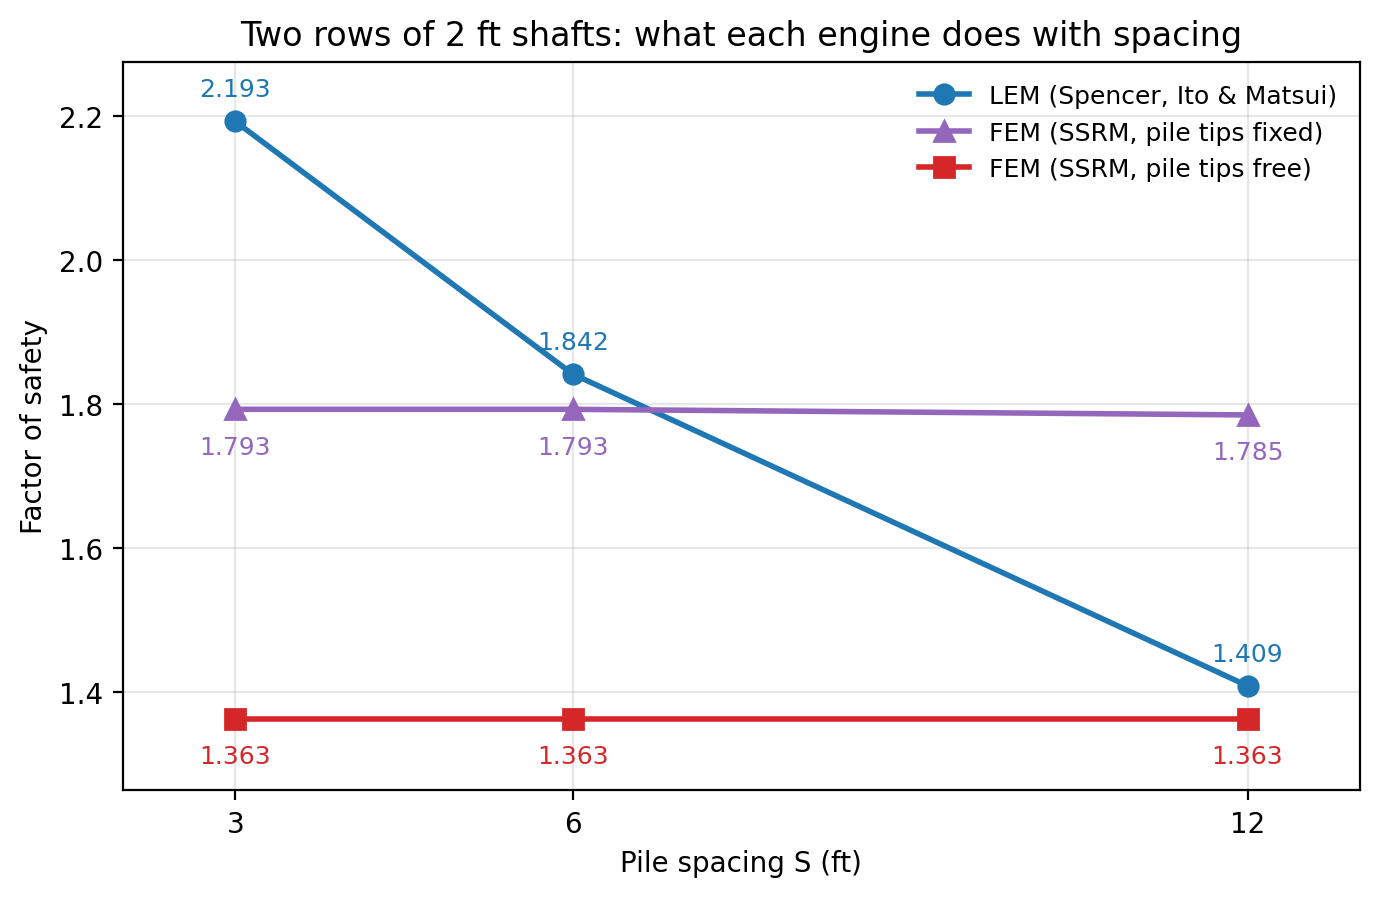
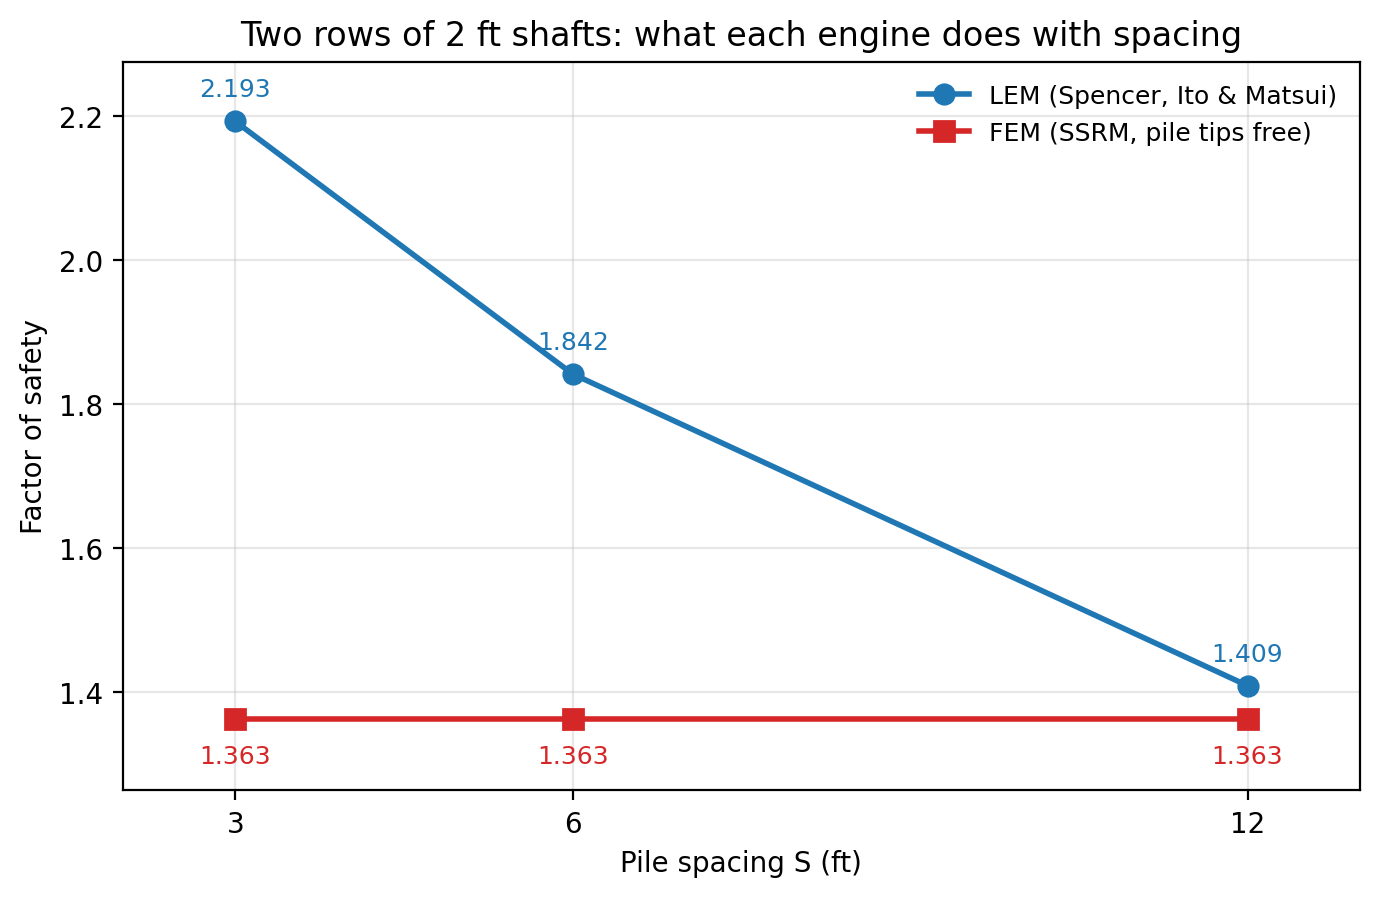
docs(tutorials): FEM-3 — the spacing figure shows only what has been run so far; the tip-fixed line joins it after the tip-fixed run
Claude-Session: https://claude.ai/code/session_01XjjT2aBxw8gY7EFdpoUcpj

Changed region(s): [[0.1558, 0.437, 0.9348, 0.5307], [0.6543, 0.1249, 0.9659, 0.2185]]

diff --git a/tools/make_tutorial_figures.py b/tools/make_tutorial_figures.py
@@ -4960,15 +4960,19 @@ def fem03_spacing():
 
 
 def _fem03_spacing_figure(lem, fixed, free, _u):
-    """The sweep on one axis: the limit equilibrium curve and the two
-    strength-reduction lines, each point labeled with its own answer.
+    """The sweep on one axis, drawn twice for the page's order: first the
+    limit equilibrium curve against the strength-reduction line with the tips
+    free (``fem03_spacing_sweep.png``, the figure the spacing section opens
+    on), then the same with the tip-fixed line added
+    (``fem03_spacing_sweep_tips.png``), for the section that runs the tips
+    fixed. Each point is labeled with its own answer.
 
     The labels sit above the limit equilibrium curve and below both flat lines,
     which is what keeps the 6 ft column readable: the limit equilibrium point and
     the tip-fixed point are 0.05 apart there, and a label above each would print
     one over the other.
     """
-    def _draw():
+    def _draw(with_fixed=True):
         fig, ax = plt.subplots(figsize=(7.0, 4.6))
         xs = list(FEM03_SPACINGS)
         series = [
@@ -4976,6 +4980,8 @@ def _fem03_spacing_figure(lem, fixed, free, _u):
             (fixed, "FEM (SSRM, pile tips fixed)", "#9467bd", "^-", -16),
             (free, "FEM (SSRM, pile tips free)", "#d62728", "s-", -16),
         ]
+        if not with_fixed:
+            series = [series[0], series[2]]
         for data, label, color, style, dy in series:
             ax.plot(xs, [data[s] for s in xs], style, color=color,
                     linewidth=2.0, markersize=7, label=label)
@@ -4998,7 +5004,8 @@ def _fem03_spacing_figure(lem, fixed, free, _u):
         ax.legend(loc="upper right", frameon=False, fontsize=9)
         fig.tight_layout()
 
-    capture("fem03_spacing_sweep.png", _draw)
+    capture("fem03_spacing_sweep.png", lambda: _draw(with_fixed=False))
+    capture("fem03_spacing_sweep_tips.png", lambda: _draw(with_fixed=True))
 
 
 def fem03_wall():

diff --git a/docs/tutorials/fem03_piles.md b/docs/tutorials/fem03_piles.md
@@ -295,8 +295,7 @@ At 3 ft the search's own critical circle gives 2.193, where
 spacing because its sweep holds the 6 ft circle fixed. The three strength
 reduction runs return the same bracket,
 [1.3594, 1.3672], and so the same answer, 1.363, with the same verdict at every
-trial. The purple line is a second set of strength reduction runs on the same
-rows, which the next section comes to.
+trial.
 
 Run one point of it to see both. Open **Piles**, set `S` to `12` on both rows
 with `H` still blank, and **OK**. Search with Spencer again: **FS = 1.409**, and
@@ -387,8 +386,11 @@ at elevation 9.9 to 10.9. The mechanism has moved above the reinforcement
 instead of passing through it.
 
 Run the spacing sweep again with the tips fixed and it is flat too, at 1.793,
-1.793 and 1.785 for 3, 6 and 12 ft — the purple line on the figure above. This
-time the shafts are at their moment capacity at every spacing, the peak moment
+1.793 and 1.785 for 3, 6 and 12 ft:
+
+![The spacing sweep with the tip-fixed runs added](images/fem03_spacing_sweep_tips.png){width=800}
+
+This time the shafts are at their moment capacity at every spacing, the peak moment
 per unit width tracking M<sub>cap</sub> ÷ S exactly: 20,000, 10,000 and
 5,000 lb·ft/ft. Whichever end condition the rows are given, the factor of safety
 is decided by the mechanism the smeared wall forces the soil into, not by how
